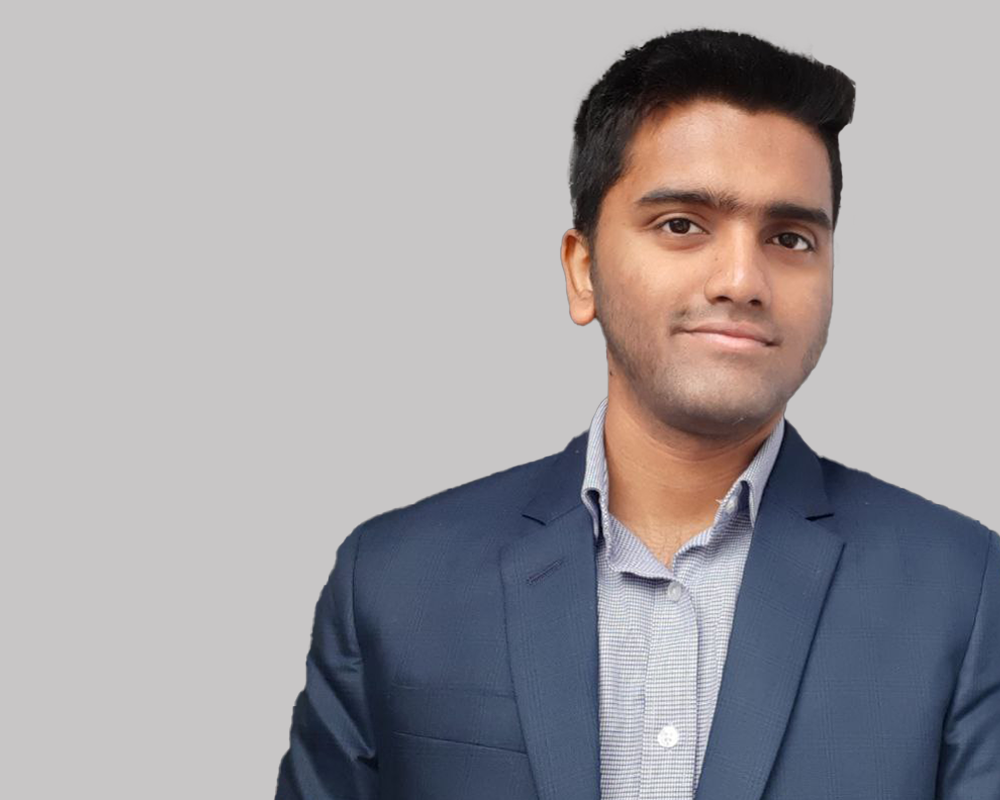
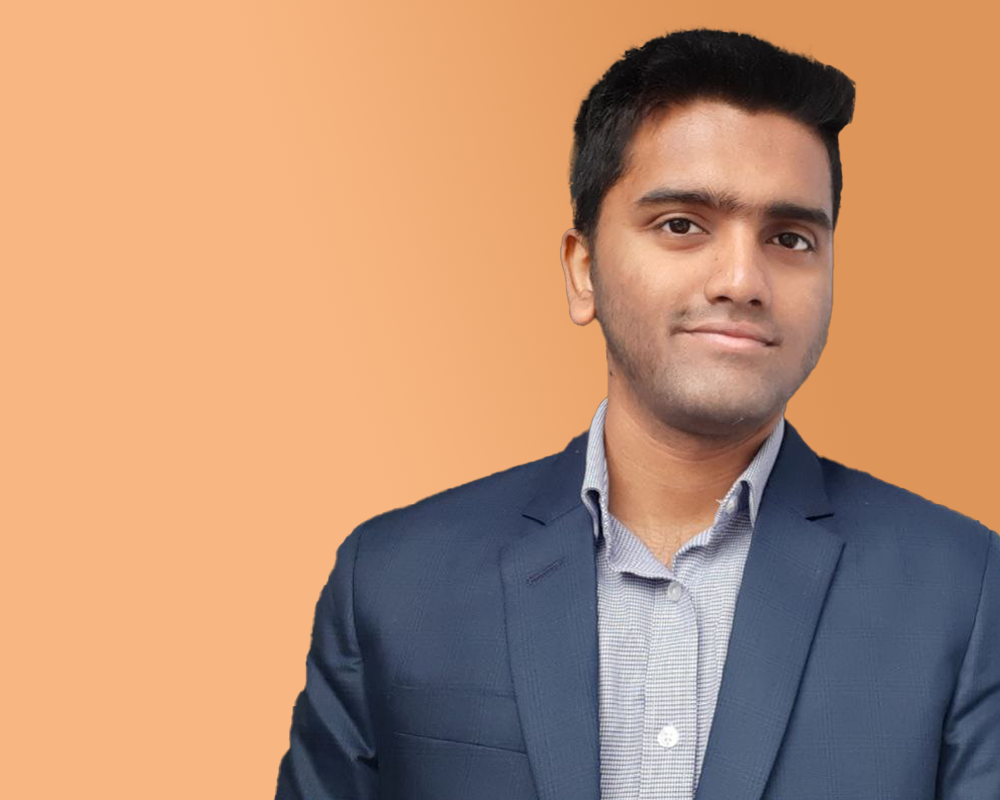
Final Release 0.1

diff --git a/index.html b/index.html
@@ -74,7 +74,7 @@
                 </div>
                 <div class="profession" style="--i:1;">
                     <i class='bx bx-camera'></i>
-                    <h3>Photographer</h3>
+                    <h3>Graphics <br>Designer</h3>
                 </div>
                 <div class="profession" style="--i:2;">
                     <i class='bx bx-palette'></i>
@@ -136,9 +136,9 @@
                 <!--<a href="#" class="btn">Read More</a>-->
             </div>
             <div class="services-box">
-                <i class='bx bx-wifi'></i>
-                <h3>Network</h3>
-                <p>Proficient in network administration and security using Kali Linux. Experienced in penetration testing, network troubleshooting, and vulnerability assessment. Passionate about cybersecurity.</p>
+                <i class='bx bxs-cog'></i>
+                <h3>Administrator</h3>
+                <p>System Administrator with a track record of maintaining optimal network and computer health. Proactive in system monitoring and performance optimization, minimizing downtime and maximizing productivity.</p>
                 <!--<a href="#" class="btn">Read More</a>-->
             </div>
             <div class="services-box">
@@ -227,7 +227,7 @@ Coming Soon . . . .
                     <div class="testimonial-slide swiper-slide">
                         <img src="https://builtin.com/cdn-cgi/image/f=auto,quality=80,width=752,height=435/https://builtin.com/sites/www.builtin.com/files/styles/byline_image/public/2021-12/machine-learning-examples-applications.png" alt="">
                         <h3>ML MODEL</h3>
-                        <p>Trained a ML model with huge datasets</p><br><br>
+                        <p>Train a ML model with huge datasets</p><br><br>
                     </div>
                     
                     <div class="testimonial-slide swiper-slide">

diff --git a/styles.css b/styles.css
@@ -13,9 +13,9 @@
 
 
 :root {
-    --bg-color: #dff8d8;
+    --bg-color: #FFE5B4;
     --text-color: #333;
-    --main-color:#d49058;
+    --main-color:#d58b4e;
     --white-color: #fdfdfd;
     --shadow-color: rgba(0, 0, 0, .2);
     --background-image-page0: url(media/bg1.png);
@@ -73,7 +73,7 @@ body {
 .navbar a {
     position: relative;
     font-size: 1.7rem;
-    color: var(--main-color) ;
+    color: #FFE5B4;
     font-weight: 500;
     margin-right: 3.5rem;
 }
@@ -103,7 +103,7 @@ body {
 
 #darkMode-icon {
     font-size: 2.4rem;
-    color: var(--main-color);
+    color: var(--bg-color);
     cursor: pointer;
 }
 
@@ -285,18 +285,18 @@ section {
     flex-direction: column;
     color: var(--main-color);
     transform: rotate(calc(360deg / 4 * var(--i)));
-    transform-origin: 384px;
+    transform-origin: 370px;
     background: var(--bg-color);
     padding: 13px 0;
 }
 
 .home .profession-box .profession:nth-child(1) i {
-    margin-right: 15px;
+    margin-right: 50px;
 }
 
 .home .profession-box .profession:nth-child(2),
 .home .profession-box .profession:nth-child(4) {
-    padding-bottom: 20px;
+    margin-right: 50px;
 }
 
 .home .profession i {
